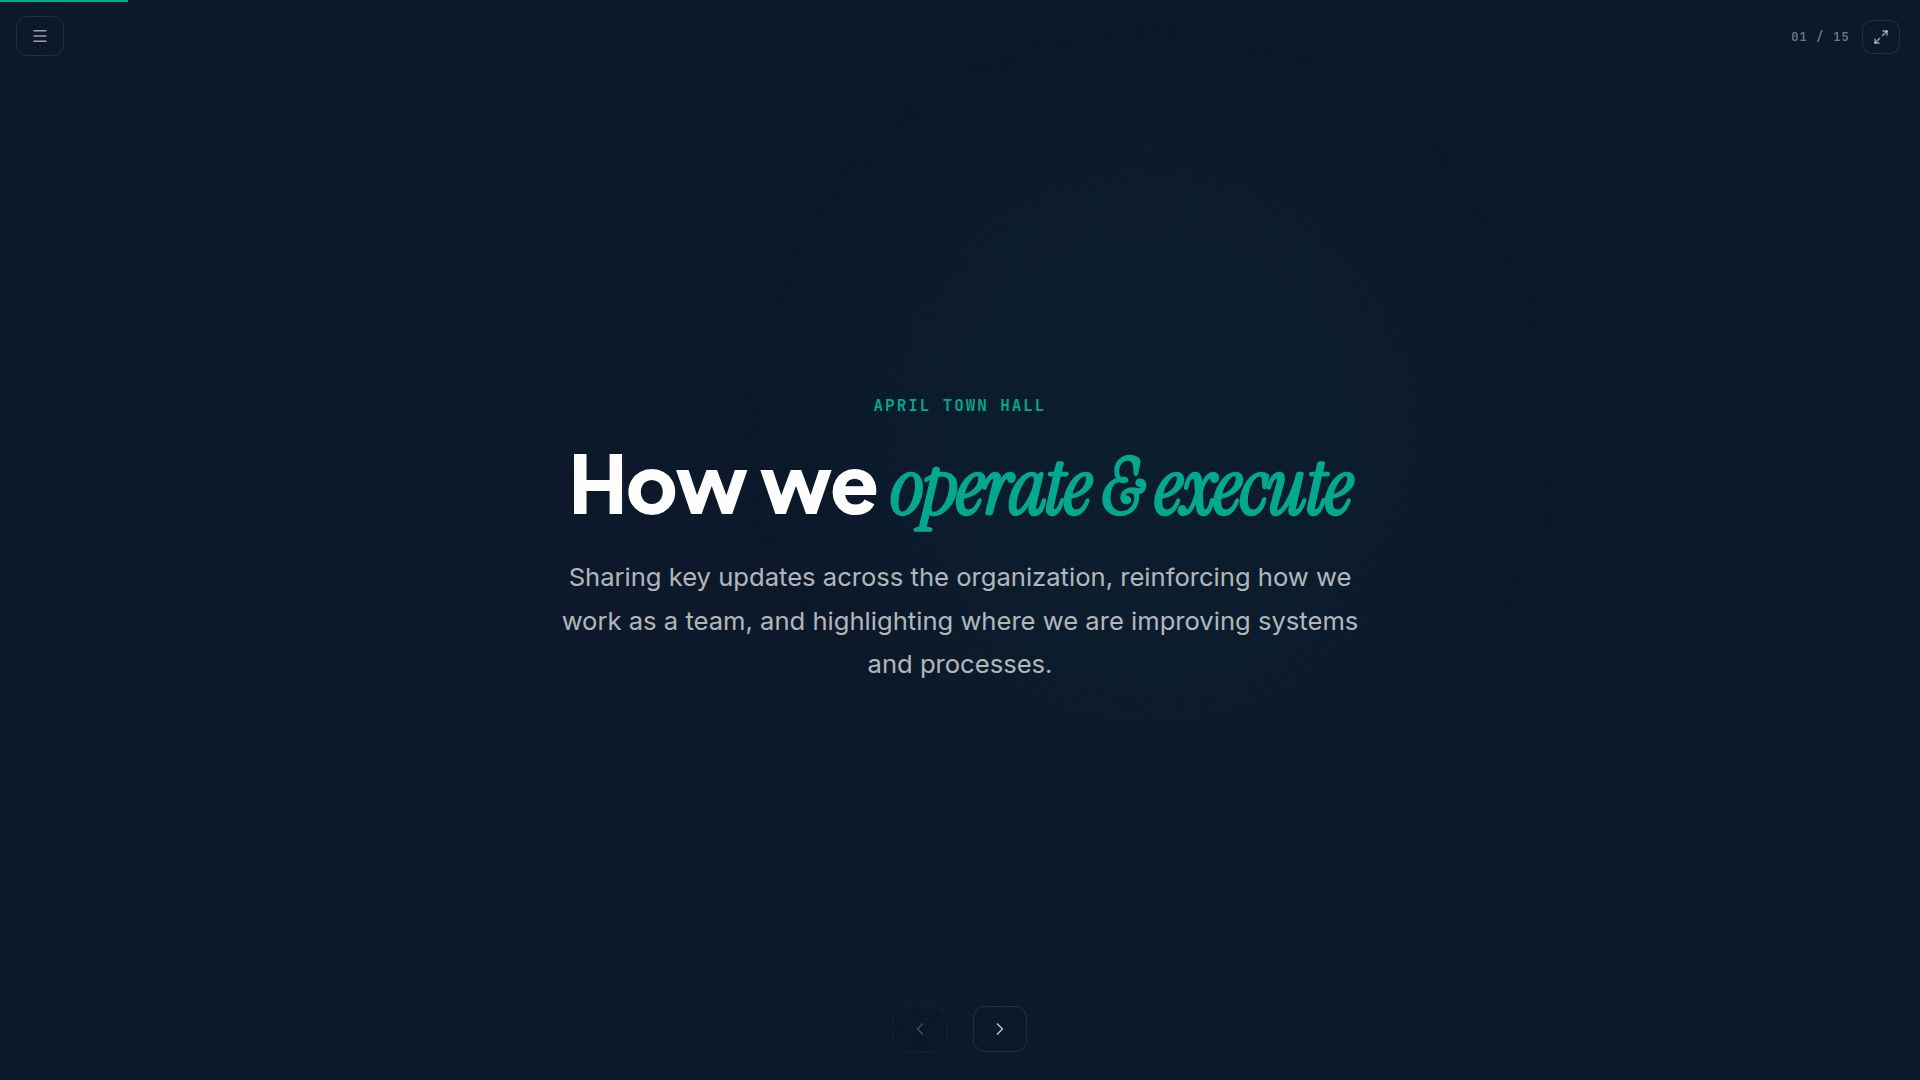
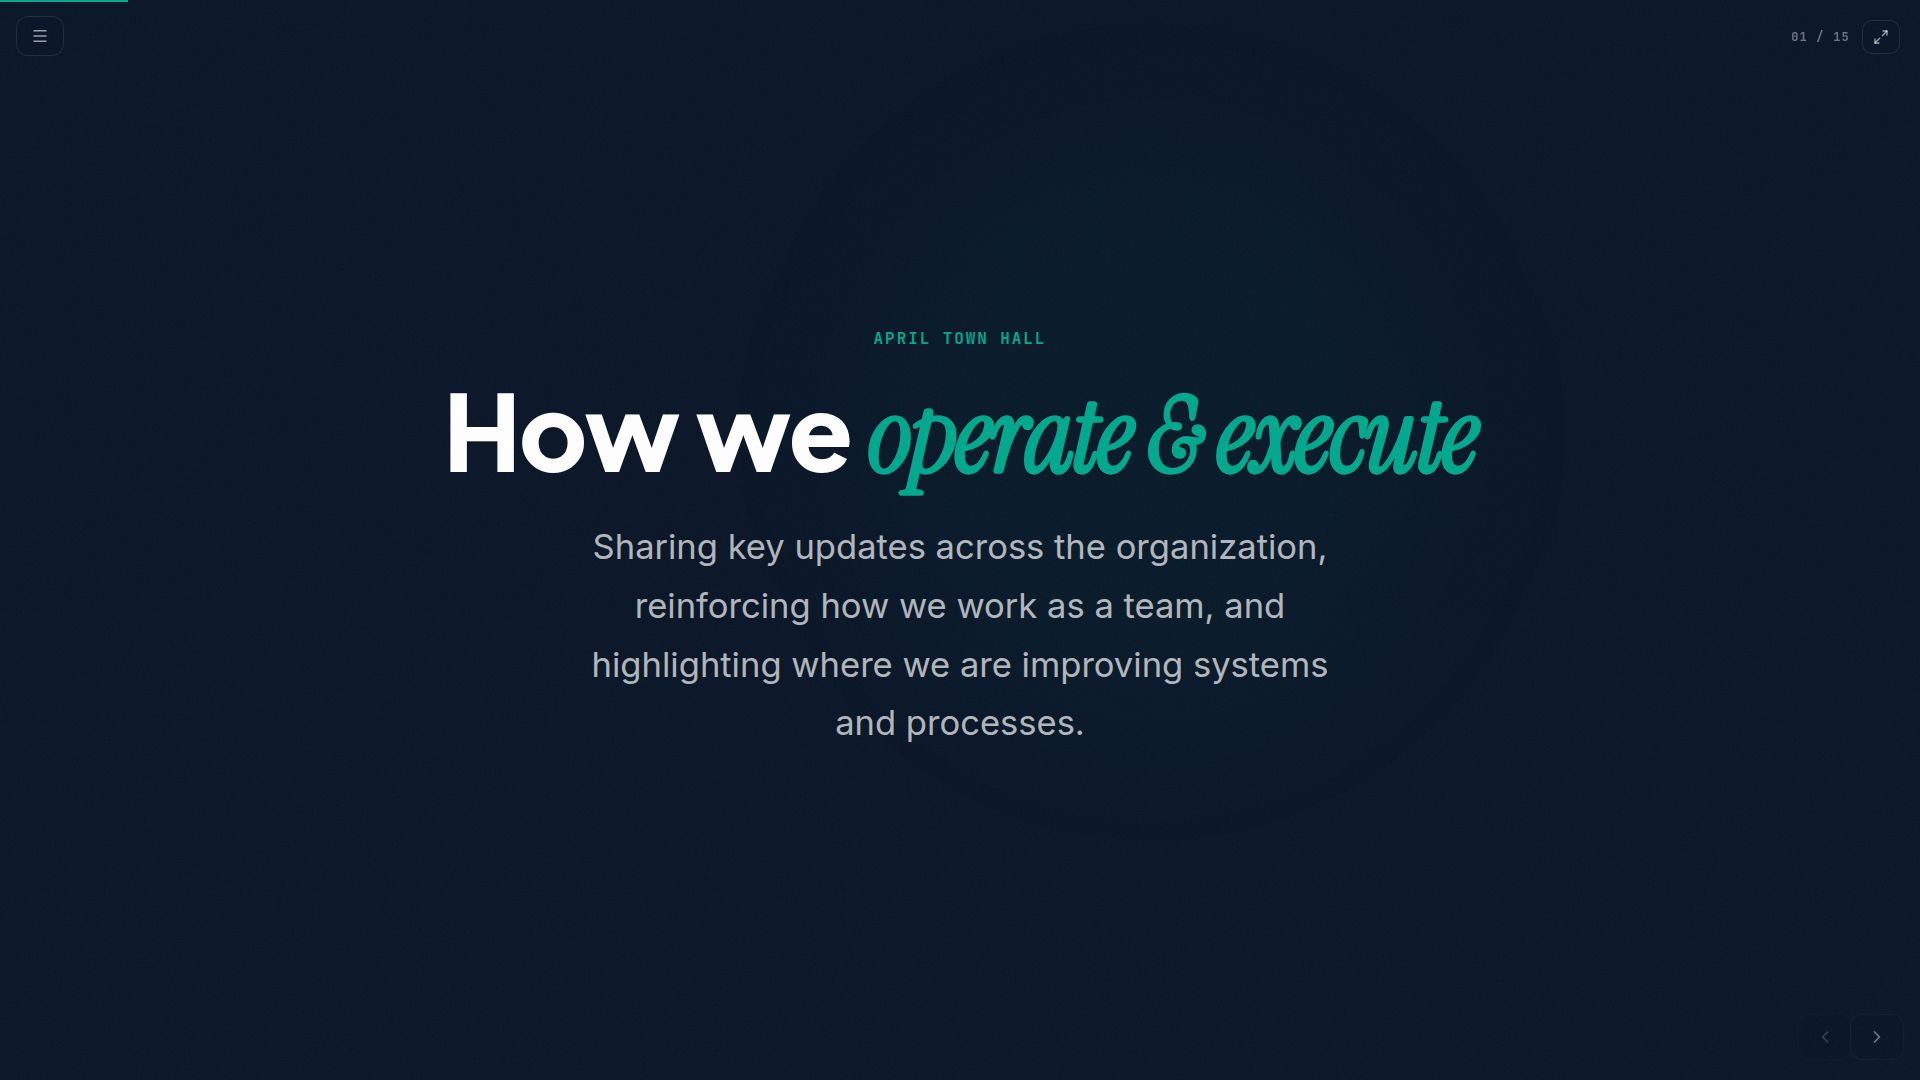
Make slide content scale proportionally with screen size
Update base font size in CSS and convert hardcoded pixel values to responsive clamp() functions in multiple slide components to ensure consistent scaling across different screen resolutions.

Replit-Commit-Author: Agent
Replit-Commit-Session-Id: 9c3667c5-436e-4eae-81d5-872f1df67b9a
Replit-Commit-Checkpoint-Type: full_checkpoint
Replit-Commit-Event-Id: d4326152-eb52-4ec9-bd09-f80f4d093f3a
Replit-Commit-Screenshot-Url: https://storage.googleapis.com/screenshot-production-us-central1/eedd8985-f0e4-4f02-9765-9e90ccbcc406/9c3667c5-436e-4eae-81d5-872f1df67b9a/kY4runF
Replit-Helium-Checkpoint-Created: true

Changed region(s): [[0.2188, 0.3667, 0.7812, 0.7028], [0.4688, 0.3056, 0.5312, 0.3361]]

diff --git a/artifacts/april-town-hall/src/pages/slides/Slide02Workversaries.tsx b/artifacts/april-town-hall/src/pages/slides/Slide02Workversaries.tsx
@@ -47,8 +47,8 @@ function MemberCard({ name, years, initials, imageSrc }: MemberCardProps) {
       {/* Avatar — circular photo; falls back to initials if imageSrc is not provided */}
       <div
         style={{
-          width: 100,
-          height: 100,
+          width: "clamp(80px, 8vw, 140px)",
+          height: "clamp(80px, 8vw, 140px)",
           borderRadius: "50%",
           overflow: "hidden",
           border: `3px solid ${COLORS.teal}`,
@@ -70,7 +70,7 @@ function MemberCard({ name, years, initials, imageSrc }: MemberCardProps) {
             style={{
               fontFamily: FONTS.heading,
               fontWeight: 800,
-              fontSize: 30,
+              fontSize: "clamp(1.5rem, 2.5vw, 3rem)",
               color: "#fff",
               letterSpacing: "-0.02em",
             }}
@@ -86,7 +86,7 @@ function MemberCard({ name, years, initials, imageSrc }: MemberCardProps) {
           style={{
             fontFamily: FONTS.heading,
             fontWeight: 800,
-            fontSize: 72,
+            fontSize: "clamp(3.5rem, 5.5vw, 8rem)",
             lineHeight: 1,
             color: COLORS.teal,
             letterSpacing: "-0.04em",
@@ -97,7 +97,7 @@ function MemberCard({ name, years, initials, imageSrc }: MemberCardProps) {
         <div
           style={{
             fontFamily: FONTS.mono,
-            fontSize: 15,
+            fontSize: "clamp(0.7rem, 1.1vw, 1.3rem)",
             fontWeight: 700,
             color: "rgba(30,41,59,0.5)",
             textTransform: "uppercase",
@@ -114,7 +114,7 @@ function MemberCard({ name, years, initials, imageSrc }: MemberCardProps) {
         style={{
           fontFamily: FONTS.heading,
           fontWeight: 700,
-          fontSize: 20,
+          fontSize: "clamp(1rem, 1.6vw, 2rem)",
           color: COLORS.charcoal,
           textAlign: "center",
           lineHeight: 1.3,

diff --git a/artifacts/april-town-hall/src/pages/slides/Slide10ScoutReports.tsx b/artifacts/april-town-hall/src/pages/slides/Slide10ScoutReports.tsx
@@ -133,7 +133,7 @@ export default function Slide10ScoutReports() {
                 style={{
                   fontFamily: FONTS.heading,
                   fontWeight: 700,
-                  fontSize: 22,
+                  fontSize: "clamp(1.1rem, 1.8vw, 2.5rem)",
                   color: "#fff",
                 }}
               >
@@ -142,7 +142,7 @@ export default function Slide10ScoutReports() {
               <div
                 style={{
                   fontFamily: FONTS.body,
-                  fontSize: 17,
+                  fontSize: "clamp(0.9rem, 1.3vw, 1.8rem)",
                   color: "rgba(255,255,255,0.55)",
                   marginTop: 6,
                 }}

diff --git a/artifacts/april-town-hall/src/index.css b/artifacts/april-town-hall/src/index.css
@@ -9,6 +9,12 @@
   --color-charcoal: #1E293B;
 }
 
+html {
+  /* Scale 1rem with viewport above 1024px so all rem-based clamp limits grow
+     on larger screens, matching the vw proportions seen in the Replit preview. */
+  font-size: clamp(16px, 1.5625vw, 28px);
+}
+
 html,
 body,
 #root {
